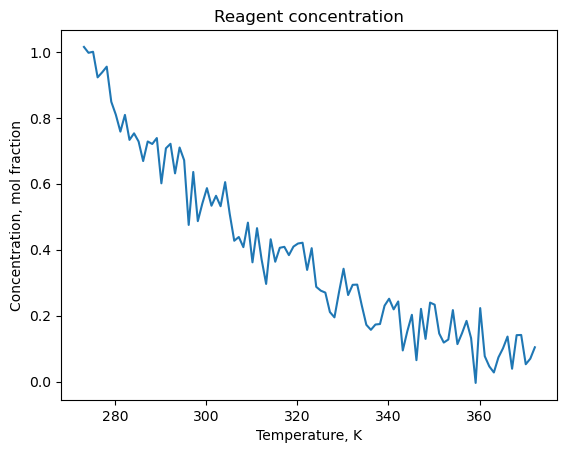
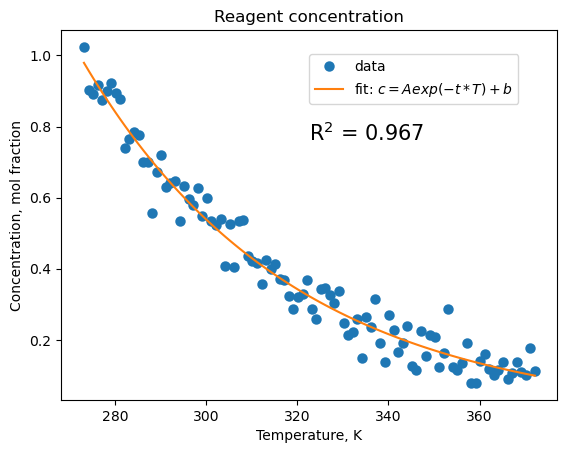
changed plt to data points, added an exp fit, and R2 calc

diff --git a/python_sandbox.py b/python_sandbox.py
@@ -6,17 +6,33 @@
 # This is a python script 
 # You can make modifications and practice making commits and pushing to the reporsitory
 
+from matplotlib import markers
 import numpy as np
+import scipy.optimize as opt
 import matplotlib.pyplot as plt
+
+# ==============================================================
+# Functions
+def fit_exp(x,A,t,b):
+    return A*np.exp(-t*x)+b
+# initial guess
+p0 = [1000, 0.1, 50]
 
 # ==============================================================
 # data initialization
 temp = np.arange(0,100) + 273.15 # K
-conc = np.logspace(1,0,100)/10 # mol fraction
+concn = np.logspace(1,0,100)/10 # mol fraction
 # generate normal dist'd noise
-noise = np.random.normal(0,0.05,conc.shape) 
+noise = np.random.normal(0,0.05,concn.shape) 
 # add noise to the concentration
-conc = conc + noise
+concn = concn + noise
+# fit an exponential to the data
+params, cv = opt.curve_fit(fit_exp,temp,concn,p0)
+A, t, b = params
+# Coefficient of determination
+diffSqrd = np.square(concn - fit_exp(temp,A,t,b))
+diffSqrd_mean = np.square(concn - np.mean(concn))
+R2 = 1 - np.sum(diffSqrd)/np.sum(diffSqrd_mean)
 
 # ==============================================================
 # Visualization
@@ -35,8 +51,17 @@ NROWS = 1
 NCOLS = 1
 f, axs = plt.subplots(nrows=NROWS,ncols=NCOLS,
                       figsize=(NCOLS*FIGWIDTH,NROWS*FIGHEIGHT))
-axs.plot(temp,conc)
+axs.plot(temp,concn,marker='o',
+         markeredgewidth=1.5,
+         linestyle='none',
+         label='data')
+axs.plot(temp,fit_exp(temp,A,t,b),
+         label='fit: $c=Aexp(-t*T)+b$')
 axs.set_title("Reagent concentration")
 axs.set_xlabel("Temperature, K")
 axs.set_ylabel("Concentration, mol fraction")
+axs.annotate("R$^2$ = " + str(np.around(R2,decimals=3)),
+             xy=(0.5,0.7),xycoords='axes fraction',
+             fontsize=TEXTFONT)
+axs.legend(loc=(0.5,0.8))
 f.savefig("4_figures/reagent_concentration.png",bbox_inches='tight')
